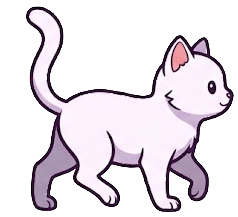
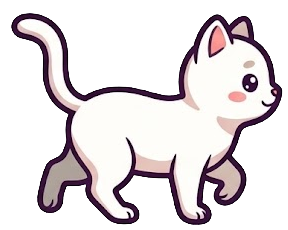
Cat Evolution: caminata de 6 cuadros con el estilo de las demás poses

Changed region(s): [[0.0294, 0.0276, 1.0, 0.9954]]

diff --git a/cat-evolution/index.html b/cat-evolution/index.html
@@ -330,6 +330,7 @@ img.catimg{display:block;width:100%;height:auto}
 .walker.walking .side img.catimg{animation:stepimg .32s ease-in-out infinite alternate;transform-origin:50% 100%}
 .walker.lifted .hang img.catimg{transform-origin:50% 3%;animation:sway 1.1s ease-in-out infinite alternate}
 .walker.walking .side img.catimg.frames{animation:none}
+.walker .side img.catimg.frames{width:130%;max-width:none;margin-left:-15%}
 @keyframes stepimg{from{transform:translateY(0) rotate(-2.5deg)}to{transform:translateY(-4%) rotate(2.5deg)}}
 @media (prefers-reduced-motion:reduce){.walker.walking .side img.catimg,.walker.lifted .hang img.catimg{animation:none}}
 /* Resplandor del Abuelo cuando no hay imagen con ojos brillantes */
@@ -1134,12 +1135,13 @@ img.catimg{display:block;width:100%;height:auto}
     // cuadros de la caminata (todos del mismo tamaño, alineados por la nariz)
     caminar1: { art: 'gato_caminar_1', acc: 'caminar' }, caminar2: { art: 'gato_caminar_2', acc: 'caminar' },
     caminar3: { art: 'gato_caminar_3', acc: 'caminar' }, caminar4: { art: 'gato_caminar_4', acc: 'caminar' },
+    caminar5: { art: 'gato_caminar_5', acc: 'caminar' }, caminar6: { art: 'gato_caminar_6', acc: 'caminar' },
   };
-  const WALK_FRAMES = 4, WALK_MS = 150;
+  const WALK_FRAMES = 6, WALK_MS = 125;
   // Accesorios de Gemini puestos sobre cada pose: [x, y] del centro y ancho (fracciones de la imagen del gato), giro en grados.
   // Las poses que no aparecen aquí (dormido, colgado) se ven sin accesorio.
   const ACC_POS = {
-    caminar:  { cascabel: [.75, .6, .24, -35], mono: [.85, .65, .17, -5], usekh: [.79, .63, .27, -12], luna: [.81, .25, .24, -5], bufanda: [.76, .65, .27, -12], nemes: [.74, .4, .3, 10] },
+    caminar:  { cascabel: [.74, .57, .24, -30], mono: [.85, .6, .15, -5], usekh: [.78, .6, .27, -12], luna: [.8, .17, .24, -5], bufanda: [.75, .63, .27, -12], nemes: [.75, .3, .3, 10] },
     frente:   { cascabel: [.5, .7, .44, 0], mono: [.5, .62, .24, 0], usekh: [.5, .7, .5, 0], luna: [.5, .12, .52, 0], bufanda: [.5, .72, .5, 0], nemes: [.5, .28, .82, 0] },
     acostado: { cascabel: [.73, .66, .28, 0], mono: [.73, .6, .14, 0], usekh: [.73, .67, .32, 0], luna: [.73, .13, .33, 0], bufanda: [.73, .7, .3, 0], nemes: [.73, .27, .47, 0] },
     sentado:  { cascabel: [.66, .47, .36, -30], mono: [.78, .5, .2, 0], usekh: [.7, .5, .4, -15], luna: [.71, .1, .32, -8], bufanda: [.66, .52, .36, -15], nemes: [.62, .21, .44, 10] },

diff --git a/cat-evolution/herramientas/procesar_arte.py b/cat-evolution/herramientas/procesar_arte.py
@@ -33,7 +33,7 @@ HOJAS = {
     'hoja_egipto': ['esfinge', 'esfinge_piedra', 'sarcofago', 'altar', 'obelisco', 'estandarte', 'estanque', 'icono_ofrenda'],
     'hoja_casa_nieve': ['arbol_gato', 'canasta', 'plato', 'muneco_nieve', 'iglu', 'fogata'],
     # hojas de animación: cuadros en orden
-    'hoja_caminar': ['gato_caminar_1', 'gato_caminar_2', 'gato_caminar_3', 'gato_caminar_4'],
+    'hoja_caminar': [f'gato_caminar_{i}' for i in range(1, 7)],
     'hoja_accesorios': ['acc_cascabel', 'acc_mono', 'acc_usekh', 'acc_luna', 'acc_bufanda', 'acc_nemes'],
     'hoja_acicalar': ['gato_acicalar_1', 'gato_acicalar_2', 'gato_acicalar_3', 'gato_acicalar_4'],
     'hoja_saltar': ['gato_saltar_1', 'gato_saltar_2', 'gato_saltar_3', 'gato_saltar_4'],
@@ -44,7 +44,7 @@ HOJAS = {
 ESPEJO = {'gato_lado_1', 'gato_lado_2'}
 # cuadros de animación que deben quedar del mismo tamaño, alineados abajo y a la derecha (la nariz),
 # para que al pasarlos rápido la cabeza no tiemble
-ANIMACIONES = {'gato_caminar_': 4}
+ANIMACIONES = {'gato_caminar_': 6}
 
 # nombre: (tipo, tamaño máximo en px)
 #   recorte = quitar fondo blanco y recortar al objeto
@@ -77,7 +77,7 @@ ASSETS = {
     'gato_colgado': ('recorte', 512), 'gato_estira': ('recorte', 512), 'gato_acostado': ('recorte', 512),
     'gato_sentado_lado': ('recorte', 512), 'gato_agazapado': ('recorte', 512), 'gato_dormido': ('recorte', 512),
     # cuadros de animación
-    **{f'gato_caminar_{i}': ('recorte', 512) for i in range(1, 5)},
+    **{f'gato_caminar_{i}': ('recorte', 512) for i in range(1, 7)},
     # accesorios sueltos que el juego pone sobre el gato
     'acc_cascabel': ('recorte', 256),
     'acc_mono': ('recorte', 256),
